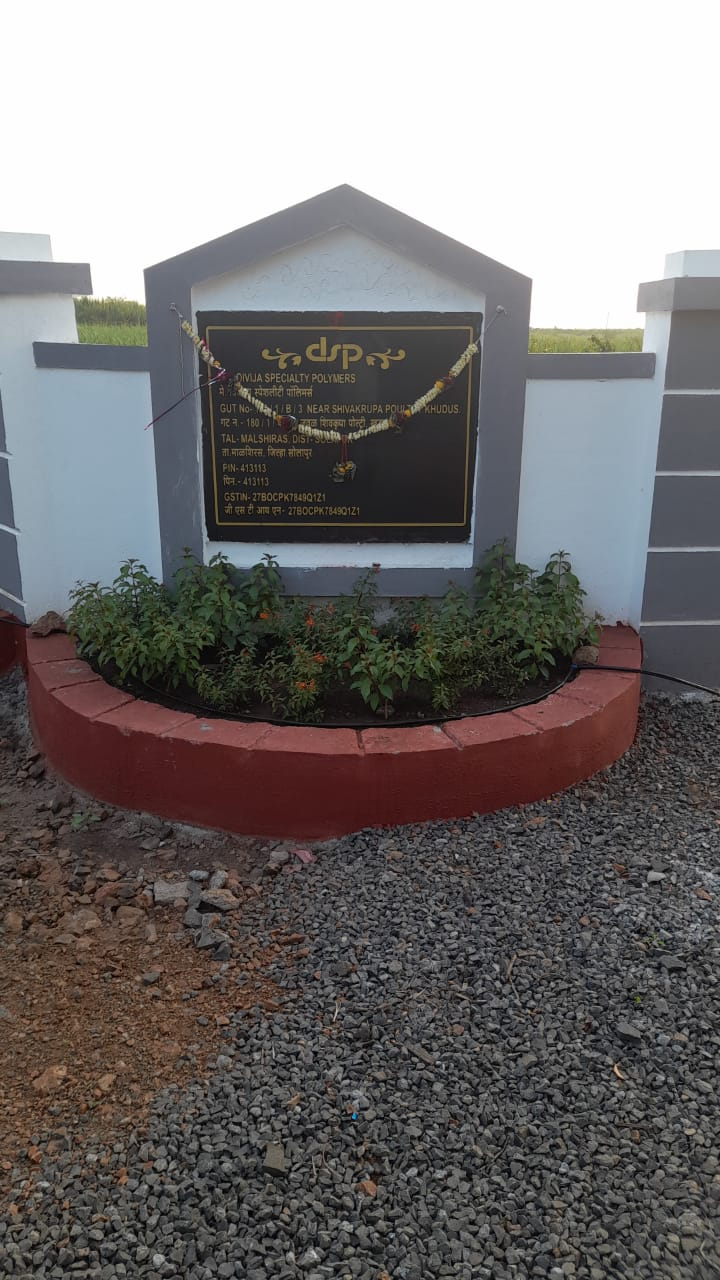
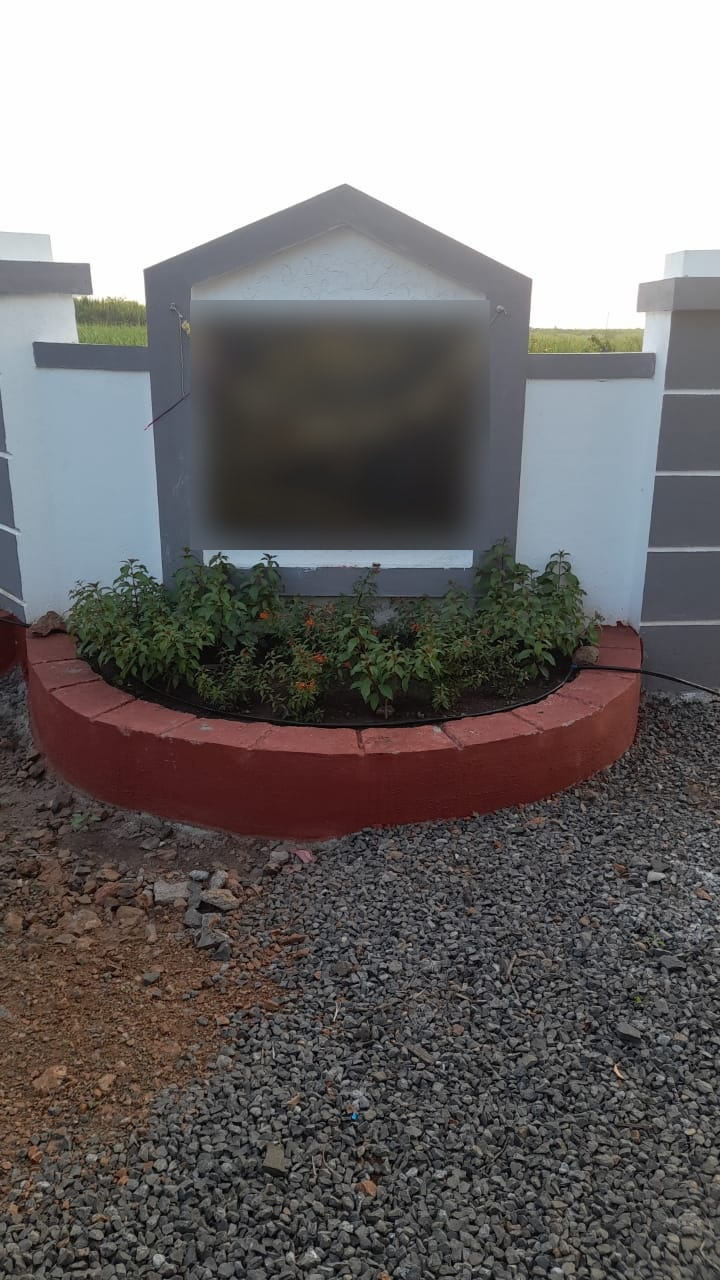
updated files as per review comments

Changed region(s): [[0.2444, 0.2188, 0.6722, 0.4375]]

diff --git a/frontend/src/components/Team.jsx b/frontend/src/components/Team.jsx
@@ -54,7 +54,7 @@ export default function Team() {
           </Typography>
           <Typography variant="body1">
             Strong leadership and technical expertise form the foundation of
-            Divija Specialty Polymers, driving quality, innovation, and long-term
+            Example Polymers, driving quality, innovation, and long-term
             customer trust.
           </Typography>
         </motion.div>
@@ -100,7 +100,7 @@ export default function Team() {
                 </Typography>
 
                 <Typography variant="body1">
-              Mr. A Sharma is the Director of Divija specialty polymers, proving focused leadership in specialty polymers, PU Hardeners, coatings and adhesive systems. Under his Direction, the company has developed a fully equipped manufacturing, R & D and Quality control facility at Khudus near Akluj solapur.                                                                                                           His emphasis on product quality, customized solutions, and process reliability 
+              Mr. A Sharma is the Director of Example Polymers, proving focused leadership in specialty polymers, PU Hardeners, coatings and adhesive systems. Under his Direction, the company has developed a fully equipped manufacturing, R & D and Quality control facility at Khudus near Akluj solapur.                                                                                                           His emphasis on product quality, customized solutions, and process reliability 
               has positioned the company as a dependable partner for customers across industrial and decorative applications segments.
                 </Typography>
 
@@ -129,7 +129,7 @@ export default function Team() {
                   Industry Recognition
                 </Typography>
                 <Typography variant="body1">
-                 Divija specialty polymers has received industry recognition for its commitment to quality, innovation, 
+                 Example Polymers has received industry recognition for its commitment to quality, innovation, 
                  and customer focused solutions, reflecting strong leadership and technical excellence.
                 </Typography>
               </Box>

diff --git a/frontend/src/components/Footer.jsx b/frontend/src/components/Footer.jsx
@@ -23,7 +23,7 @@ export default function Footer() {
           <div className="footer-brand">
             <img
               src={logo}
-              alt="Divija Speciality Polymers"
+              alt="Example Polymers"
               className="footer-logo"
             />
           </div>
@@ -46,7 +46,7 @@ export default function Footer() {
         </div>
 
         <div className="footer-bottom">
-          © 2026 Divija Speciality Polymers · All rights reserved
+          © 2026 Example Polymers · All rights reserved
         </div>
       </footer>
 
@@ -60,7 +60,7 @@ export default function Footer() {
         <DialogTitle>Privacy Policy</DialogTitle>
         <DialogContent dividers>
           <Typography paragraph>
-            Divija Speciality Polymers respects your privacy and is committed to
+            Example Polymers respects your privacy and is committed to
             protecting any personal information you share with us.
           </Typography>
 
@@ -107,7 +107,7 @@ export default function Footer() {
 
           <Typography paragraph>
             All content on this website, including text, graphics, logos, and
-            documents, is the property of Divija Speciality Polymers and is
+            documents, is the property of Example Polymers and is
             protected by applicable intellectual property laws.
           </Typography>
 
@@ -118,7 +118,7 @@ export default function Footer() {
           </Typography>
 
           <Typography paragraph>
-            Divija Speciality Polymers shall not be liable for any direct or
+            Example Polymers shall not be liable for any direct or
             indirect damages arising from the use of this website or its
             content.
           </Typography>

diff --git a/frontend/src/components/Contact.jsx b/frontend/src/components/Contact.jsx
@@ -112,16 +112,16 @@ export default function Contact() {
           <div className="info-block">
             <strong>Registered Office</strong>
             <p>
-              GAT No. 180/1/b/3, Khudus(Akluj), Tal - Malshiras, Dist - Solapur
-              Pin-413113, Maharashtra, India.
+              Akluj, Tal - Malsh, Dist - Sules
+              Pin-413443, Maharashtra, India.
             </p>
           </div>
 
           <div className="info-block">
             <strong>Manufacturing Unit</strong>
             <p>
-              GAT No. 180/1/b/3, Khudus(Akluj), Tal - Malshiras, Dist - Solapur
-              Pin-413113, Maharashtra, India.
+                Akluj, Tal - Malsh, Dist - Sules
+              Pin-413443, Maharashtra, India.
             </p>
           </div>
 
